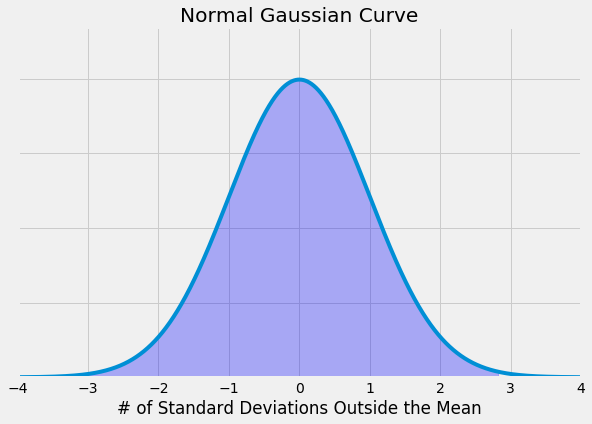
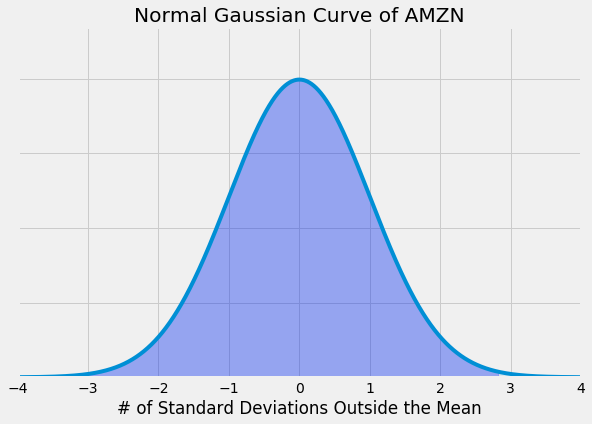
updates to Normal Gaussian function

Changed region(s): [[0.2128, 0.0, 0.7905, 0.0613]]

diff --git a/StockAnalysis.py b/StockAnalysis.py
@@ -233,21 +233,37 @@ def zValue(series):
     stdVal = series.std()
     mu = series[-1]
     z1 = (mu - meanVal) / stdVal
-    x = np.arange(-4, z1, 0.01)
-    y = norm.pdf(x, 0, 1)
-    # build the plot
-    fig, ax = plt.subplots(figsize=(9, 6))
-    plt.style.use('fivethirtyeight')
+    return z1
 
-    ax.fill_between(x, y, -1, alpha=0.3, color='b')
-    ax.set_xlim([-4, 4])
-    ax.set_ylim(0)
-    ax.set_xlabel('# of Standard Deviations Outside the Mean')
-    ax.set_yticklabels([])
-    ax.set_title('Normal Gaussian Curve')
 
-    plt.savefig('normal_curve.png', dpi=72, bbox_inches='tight')
-    plt.show()
+def NormalGaussianCurve(stocks_df):
+    """
+    This function plots the normal gaussian curve for the stocks closing price
+    times series data by calculating the z value using zValue function and
+    created a normal distrubutioon plot with the area of the z value shaded in
+    """
+    for stock in stocks_df.StockName.unique():
+        series = stocks_df['Close'][(stocks_df.StockName == stock)][-30:]
+        z1 = zValue(series)
+        x = np.arange(-4, z1, 0.01)
+        y = norm.pdf(x, 0, 1)
+        x_all = np.arange(-10, 10, 0.001)
+        y2 = norm.pdf(x_all,0,1)
+
+        # build the plot
+        fig, ax = plt.subplots(figsize=(9, 6))
+        plt.style.use('fivethirtyeight')
+        ax.plot(x_all,y2)
+        ax.fill_between(x, y, -1, alpha=0.3, color='b')
+        ax.fill_between(x_all,y2,0, alpha=0.1)
+        ax.set_xlim([-4, 4])
+        ax.set_ylim(0)
+        ax.set_xlabel('# of Standard Deviations Outside the Mean')
+        ax.set_yticklabels([])
+        ax.set_title('Normal Gaussian Curve of ' + stock)
+
+        plt.savefig('normal_curve.png', dpi=72, bbox_inches='tight')
+        plt.show()
 
 
 def main():
@@ -259,6 +275,7 @@ def main():
     CovarianceCorrelation(stocks_df)
     MarketComparison(stocks_df)
     StandardDev(stocks_df)
+    NormalGaussianCurve(stocks_df)
 
 
 if __name__ == '__main__':
